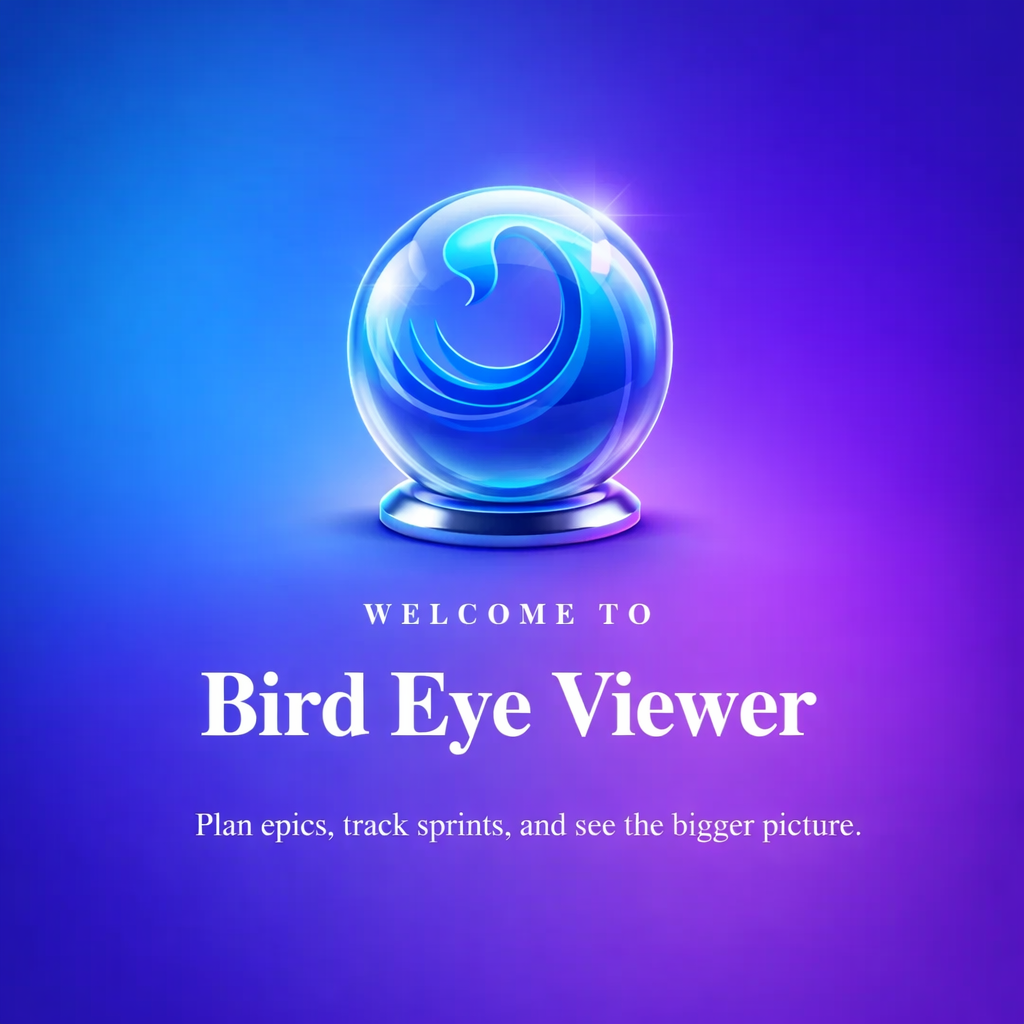
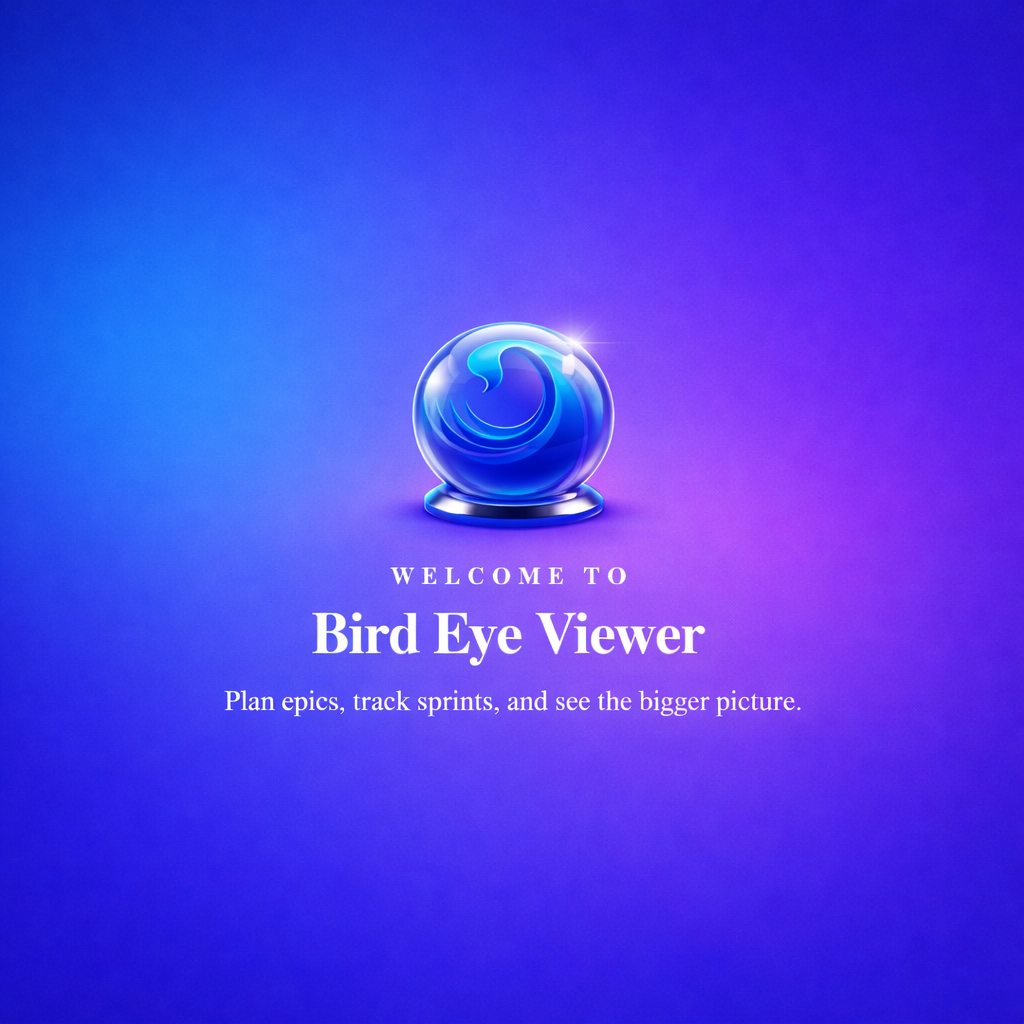
feat(auth, dashboard): cooldown + hydration safe + sticky polish
Auth
- Adds a client-side 60-second cooldown after 5 failed sign-in attempts,
  with an amber countdown banner above the inputs and "Locked · Xs"
  button label. Augments the existing 5/15min server rate limit and the
  (inactive without keys) Turnstile gate.
- Renders the login form as a placeholder on the server and swaps to
  the real <form> after mount, so password-manager extensions (Keeper,
  1Password, LastPass) that inject sibling elements no longer break
  hydration with a child-list mismatch.
- Defensive suppressHydrationWarning kept on the input wrappers as a
  belt-and-braces follow-up to the mounted-gate fix.
- New square 1024×1024 brand-panel hero (auth-hero.png) sized for the
  panel's near-square aspect; <Image unoptimized object-cover> serves
  the raw PNG so Next.js's optimization pipeline doesn't pick a
  downscaled variant.

Dashboard
- Removes the per-card edit-pencil button to the left of the X close
  control; ResizePad + X remain.
- Title-hover pencil and the sticky-note Edit button switch from the
  generic Pencil icon to the project's canonical SquarePen icon at
  size-3.5 strokeWidth 2 for consistency.
- Title's edit icon now sits right after the truncated title text with
  a 6px gap instead of being pushed to the far-right of the header.
- Sticky-note page-curl effect (corner cut + dark-slate underside
  triangle) moved from the outer card onto the ruled notebook page
  itself so it tracks the paper through the editing state instead of
[…]

diff --git a/epic-timeline-planner/components/auth/login-form.tsx b/epic-timeline-planner/components/auth/login-form.tsx
@@ -2,7 +2,7 @@
 
 import Link from "next/link";
 import { useRouter, useSearchParams } from "next/navigation";
-import { useCallback, useState } from "react";
+import { useCallback, useEffect, useState } from "react";
 import { Eye, EyeOff, Loader2, LogIn, Lock, Mail } from "lucide-react";
 import { toast } from "sonner";
 
@@ -39,21 +39,67 @@ export function LoginForm({
   const [failedAttempts, setFailedAttempts] = useState(0);
   const [turnstileToken, setTurnstileToken] = useState<string | null>(null);
   const [pending, setPending] = useState(false);
+  // Mounted gate — password-manager extensions (Keeper, 1Password, LastPass)
+  // inject sibling elements into form inputs AFTER React's first paint, which
+  // breaks SSR hydration with a child-list mismatch that suppressHydrationWarning
+  // alone can't silence. By rendering a static placeholder on the server and
+  // swapping to the real form only after `mounted` flips true (client-only),
+  // hydration completes against the placeholder and the swap is a normal
+  // re-render — no mismatch to flag.
+  const [mounted, setMounted] = useState(false);
+  useEffect(() => setMounted(true), []);
   // Inline error banner shown inside the form panel instead of a toast — toasts
   // are easy to miss and feel out of place for credential validation feedback.
   const [errorMessage, setErrorMessage] = useState<string | null>(null);
+  // Client-side cooldown — after 5 failed attempts in this browser session we
+  // disable the submit button for 60s and surface a countdown. Doesn't replace
+  // the server-side rate limit (5/15min) — it just gives the user explicit
+  // feedback and a hard pause before they can keep trying.
+  const [cooldownUntil, setCooldownUntil] = useState<number | null>(null);
+  const [cooldownTick, setCooldownTick] = useState(0);
 
   const needsCaptcha = failedAttempts >= TURNSTILE_THRESHOLD;
   const captchaConfigured = Boolean(process.env.NEXT_PUBLIC_TURNSTILE_SITE_KEY?.trim());
   const captchaBlocking = needsCaptcha && captchaConfigured && !turnstileToken;
+  const cooldownRemainingMs = cooldownUntil ? Math.max(0, cooldownUntil - Date.now()) : 0;
+  const cooldownActive = cooldownRemainingMs > 0;
+  const cooldownSeconds = Math.ceil(cooldownRemainingMs / 1000);
+  const submitBlocked = pending || captchaBlocking || cooldownActive;
+
+  // Keep the countdown text in sync while the cooldown is active. We only run
+  // the interval when there's a live cooldown so we don't tick forever.
+  useEffect(() => {
+    if (!cooldownActive) return;
+    const id = setInterval(() => setCooldownTick((t) => t + 1), 250);
+    return () => clearInterval(id);
+  }, [cooldownActive]);
+  // cooldownTick is intentionally read so its change re-renders the countdown.
+  void cooldownTick;
+
+  const COOLDOWN_THRESHOLD = 5;
+  const COOLDOWN_DURATION_MS = 60_000;
 
   const handleTurnstileSuccess = useCallback((token: string) => {
     setTurnstileToken(token);
   }, []);
 
+  function registerFailure() {
+    setTurnstileToken(null);
+    setFailedAttempts((n) => {
+      const next = n + 1;
+      // Once the user crosses COOLDOWN_THRESHOLD failed attempts in this
+      // session, start a 60-second hard pause. We re-arm the cooldown on every
+      // subsequent failure too, so they can't squeeze in attempts at the edge.
+      if (next >= COOLDOWN_THRESHOLD) {
+        setCooldownUntil(Date.now() + COOLDOWN_DURATION_MS);
+      }
+      return next;
+    });
+  }
+
   async function onSubmit(event: React.FormEvent<HTMLFormElement>) {
     event.preventDefault();
-    if (pending || captchaBlocking) return;
+    if (submitBlocked) return;
     setPending(true);
     setErrorMessage(null);
     try {
@@ -70,8 +116,7 @@ export function LoginForm({
       });
       if ("error" in result && result.error) {
         const msg = result.error.message || "Unable to sign in";
-        setFailedAttempts((n) => n + 1);
-        setTurnstileToken(null);
+        registerFailure();
         setErrorMessage(msg);
         return;
       }
@@ -79,13 +124,27 @@ export function LoginForm({
       router.push(callbackURL);
       router.refresh();
     } catch (err) {
-      setFailedAttempts((n) => n + 1);
-      setTurnstileToken(null);
+      registerFailure();
       const msg = err instanceof Error ? err.message : "Unable to sign in";
       setErrorMessage(msg);
     } finally {
       setPending(false);
     }
+  }
+
+  // Server-side / first-paint placeholder so hydration completes before the
+  // real <input>s exist (no inputs → nothing for password-managers to inject).
+  // Heights match the real form layout so there's no perceived layout shift
+  // when the real form swaps in on the next tick.
+  if (!mounted) {
+    return (
+      <div className="space-y-5" aria-hidden>
+        <div className="h-[68px]" />
+        <div className="h-[68px]" />
+        <div className="h-5" />
+        <div className="h-12 rounded-full bg-gradient-to-r from-sky-500 via-indigo-600 to-violet-600 opacity-60" />
+      </div>
+    );
   }
 
   return (
@@ -102,15 +161,32 @@ export function LoginForm({
           <span>{errorMessage}</span>
         </div>
       )}
+      {/* Cooldown banner — appears after 5 failed attempts and ticks down a
+          60-second hard pause. The submit button below is disabled while this
+          is on screen so the user can't keep brute-forcing. */}
+      {cooldownActive && (
+        <div
+          role="status"
+          aria-live="polite"
+          className="flex items-start gap-2 rounded-xl border border-amber-200 bg-amber-50 px-3.5 py-2.5 text-[12.5px] font-medium text-amber-800"
+        >
+          <span aria-hidden className="mt-0.5 inline-flex size-4 shrink-0 items-center justify-center rounded-full bg-amber-500 text-[10px] font-bold text-white">!</span>
+          <span>
+            Too many failed attempts. Please wait <strong>{cooldownSeconds}s</strong> before trying again.
+          </span>
+        </div>
+      )}
 
       <div className="space-y-2">
         <label htmlFor="login-email" className="text-[11px] font-bold uppercase tracking-[0.12em] text-slate-500">
           Email
         </label>
-        <div className="group relative">
+        <div className="group relative" suppressHydrationWarning>
           {/* Leading icon — sits inside the input's left padding so the cursor and
               text never collide with it. Color shifts to indigo on focus to echo
-              the focus ring's hue. */}
+              the focus ring's hue. suppressHydrationWarning silences the noise
+              from password-manager extensions (Keeper, 1Password, etc.) that
+              inject their own siblings into this wrapper after mount. */}
           <Mail className="pointer-events-none absolute left-3.5 top-1/2 size-4 -translate-y-1/2 text-slate-400 transition-colors group-focus-within:text-indigo-500" />
           <input
             id="login-email"
@@ -122,6 +198,7 @@ export function LoginForm({
             onChange={(e) => { setEmail(e.target.value); if (errorMessage) setErrorMessage(null); }}
             className="w-full rounded-xl border border-slate-200 bg-white pl-10 pr-4 py-3 text-[14px] text-slate-900 outline-none transition-shadow placeholder:text-slate-400 focus:border-indigo-400 focus:ring-4 focus:ring-indigo-100"
             placeholder="[email redacted]"
+            suppressHydrationWarning
           />
         </div>
       </div>
@@ -138,7 +215,7 @@ export function LoginForm({
             Forgot password?
           </Link>
         </div>
-        <div className="group relative">
+        <div className="group relative" suppressHydrationWarning>
           <Lock className="pointer-events-none absolute left-3.5 top-1/2 size-4 -translate-y-1/2 text-slate-400 transition-colors group-focus-within:text-indigo-500" />
           <input
             id="login-password"
@@ -150,6 +227,7 @@ export function LoginForm({
             onChange={(e) => { setPassword(e.target.value); if (errorMessage) setErrorMessage(null); }}
             className="w-full rounded-xl border border-slate-200 bg-white pl-10 pr-11 py-3 text-[14px] text-slate-900 outline-none transition-shadow placeholder:text-slate-400 focus:border-indigo-400 focus:ring-4 focus:ring-indigo-100"
             placeholder="••••••••••"
+            suppressHydrationWarning
           />
           <button
             type="button"
@@ -176,7 +254,7 @@ export function LoginForm({
 
       <button
         type="submit"
-        disabled={pending || captchaBlocking}
+        disabled={submitBlocked}
         className={cn(
           "inline-flex h-12 w-full items-center justify-center gap-2 rounded-full border-0 px-6 text-[13px] font-bold uppercase tracking-[0.12em] text-white shadow-lg shadow-indigo-500/25 transition-all",
           "bg-gradient-to-r from-sky-500 via-indigo-600 to-violet-600",
@@ -186,7 +264,13 @@ export function LoginForm({
         )}
       >
         {pending ? <Loader2 className="size-4 animate-spin" /> : <LogIn className="size-4" />}
-        <span>{pending ? "Signing in…" : "Login"}</span>
+        <span>
+          {pending
+            ? "Signing in…"
+            : cooldownActive
+              ? `Locked · ${cooldownSeconds}s`
+              : "Login"}
+        </span>
       </button>
 
       {captchaBlocking && (

diff --git a/epic-timeline-planner/components/dashboard/charts/sticky-note-card.tsx b/epic-timeline-planner/components/dashboard/charts/sticky-note-card.tsx
@@ -14,7 +14,7 @@ import {
   Link as LinkIcon,
   List,
   ListOrdered,
-  Pencil,
+  SquarePen,
   Quote,
   Underline as UnderlineIcon,
   X,
@@ -106,31 +106,17 @@ export function StickyNoteCard({ body, onSave, allowEdit = true }: Props) {
 
   const isEmpty = !body || stripHtml(body).length === 0;
 
-  // Page-curl effect: the paper has a chunk cut from its bottom-right corner via a -45deg gradient,
-  // and a small triangle below paints the underside of the fold (lighter + shadow on the diagonal).
+  // Page-curl effect: applied to the NOTEBOOK page (further down) rather than
+  // the outer card, so the curl always reads as part of the paper itself even
+  // when the footer action buttons (Edit / Cancel / Save) are mounted below.
   const FOLD = 22; // px — size of the curled-corner triangle
   return (
     <div
-      className="relative h-full min-h-0 bg-white ring-1 ring-slate-200"
+      className="relative h-full min-h-0 rounded-xl bg-white ring-1 ring-slate-200"
       style={{
-        clipPath: `polygon(0 0, 100% 0, 100% calc(100% - ${FOLD}px), calc(100% - ${FOLD}px) 100%, 0 100%)`,
-        borderRadius: "12px",
         boxShadow: "inset 0 1px 0 rgba(255,255,255,0.7), 0 4px 12px -4px rgba(15,23,42,0.10)",
       }}
     >
-      {/* Underside of the fold — small triangle in the bottom-right corner; soft slate so it reads against the white body. */}
-      <div
-        className="pointer-events-none absolute right-0 bottom-0"
-        style={{
-          width: `${FOLD}px`,
-          height: `${FOLD}px`,
-          background:
-            "linear-gradient(135deg, transparent 50%, rgb(226 232 240 / 0.85) 50%, rgb(203 213 225 / 0.95) 100%)",
-          filter: "drop-shadow(-1px -1px 1px rgba(15,23,42,0.12))",
-        }}
-        aria-hidden
-      />
-
       <div className="flex h-full min-h-0 flex-col p-3">
       {/* Header row: formatting toolbar only (shown when editing). Action buttons live in the footer below. */}
       {editing ? (
@@ -156,8 +142,10 @@ export function StickyNoteCard({ body, onSave, allowEdit = true }: Props) {
         </div>
       ) : null}
 
-      {/* Body — ruled notebook page: white background with periodic horizontal lines.
-          The 24px ruling matches the editor's line-height so text sits on the lines. */}
+      {/* Body — ruled notebook page: white background with periodic
+          horizontal lines + the page-curl effect cut from its bottom-right
+          corner. The 24px ruling matches the editor's line-height so text
+          sits on the lines. */}
       <div
         className="relative min-h-0 flex-1 overflow-y-auto rounded-md bg-white ring-1 ring-violet-200/50"
         style={{
@@ -165,10 +153,25 @@ export function StickyNoteCard({ body, onSave, allowEdit = true }: Props) {
             "repeating-linear-gradient(to bottom, transparent 0, transparent calc(1.5rem - 1px), rgb(186 230 253 / 0.7) calc(1.5rem - 1px), rgb(186 230 253 / 0.7) 1.5rem)",
           backgroundPosition: "0 0.4rem",
           backgroundAttachment: "local",
+          clipPath: `polygon(0 0, 100% 0, 100% calc(100% - ${FOLD}px), calc(100% - ${FOLD}px) 100%, 0 100%)`,
         }}
       >
         {/* Optional red "margin" line on the left, classic notebook touch */}
         <span className="pointer-events-none absolute inset-y-0 left-[1.65rem] w-px bg-rose-300/50" aria-hidden />
+        {/* Underside of the page-curl fold — soft slate triangle in the
+            bottom-right corner of the notebook page. Sits inside the body
+            so it always tracks the paper, not the outer card. */}
+        <div
+          className="pointer-events-none absolute right-0 bottom-0"
+          style={{
+            width: `${FOLD}px`,
+            height: `${FOLD}px`,
+            background:
+              "linear-gradient(135deg, transparent 50%, rgb(226 232 240 / 0.85) 50%, rgb(203 213 225 / 0.95) 100%)",
+            filter: "drop-shadow(-1px -1px 1px rgba(15,23,42,0.12))",
+          }}
+          aria-hidden
+        />
         {editing || !isEmpty ? (
           <EditorContent
             editor={editor}
@@ -218,7 +221,7 @@ export function StickyNoteCard({ body, onSave, allowEdit = true }: Props) {
               className="inline-flex h-7 items-center gap-1 rounded-md border border-violet-300/60 bg-white/70 px-2 text-[11px] font-semibold text-violet-800 hover:bg-white"
               aria-label="Edit note"
             >
-              <Pencil className="size-3" />
+              <SquarePen className="size-3.5" strokeWidth={2} />
               Edit
             </button>
           )}

diff --git a/epic-timeline-planner/components/auth/brand-panel.tsx b/epic-timeline-planner/components/auth/brand-panel.tsx
@@ -3,30 +3,32 @@ import Image from "next/image";
 /**
  * Marketing column shown beside the auth form on desktop (hidden below `lg:`).
  *
- * Uses a single pre-rendered hero image (`/auth-hero.png`) that bakes in the
- * gradient backdrop, the bubble mark, and the "WELCOME TO / Bird Eye Viewer"
- * typography from the design the user supplied. The image is sized via
- * object-cover so it fills the panel regardless of column proportions.
+ * Uses the pre-rendered hero image (`/auth-hero.png`) that already has the
+ * gradient backdrop, the bubble, and the WELCOME copy laid out at a balanced
+ * size. `object-cover` fills the panel edge-to-edge.
  */
 export function BrandPanel() {
   return (
-    <aside
-      aria-hidden
-      className="relative hidden overflow-hidden lg:block bg-gradient-to-br from-sky-500 via-indigo-600 to-violet-700"
-    >
-      {/* Shrink the entire image (gradient backdrop + bubble + text) to fit
-          inside the panel with breathing room on all sides. object-contain
-          preserves the image's aspect ratio; the matching panel gradient
-          behind it extends seamlessly to the card's edge. Bump p-* up to make
-          the image even smaller, down to reduce the margin. */}
+    <aside aria-hidden className="relative hidden overflow-hidden lg:block">
+      {/* object-cover fills the panel edge-to-edge. With this image's tight
+          composition (small bubble + text centered in lots of gradient), the
+          horizontal cropping just trims excess gradient on the sides — the
+          content stays well within frame and there's no visible seam since
+          the image is the only thing painting the panel background. */}
       <Image
         src="/auth-hero.png"
         alt=""
         fill
         priority
         quality={100}
-        sizes="(min-width: 1280px) 720px, 50vw"
-        className="object-contain p-12 xl:p-16"
+        // Skip Next.js's image-optimization pipeline so the browser receives
+        // the raw 1536×1024 PNG. Optimization picks a downscaled variant when
+        // `sizes` is conservative, which makes object-cover's required upscale
+        // worse. Serving the original gives object-cover the most pixels to
+        // work with and is the fastest sharpness win without re-generating
+        // the source asset at a higher resolution.
+        unoptimized
+        className="object-cover"
       />
     </aside>
   );

diff --git a/epic-timeline-planner/components/dashboard/dashboard-chart-card.tsx b/epic-timeline-planner/components/dashboard/dashboard-chart-card.tsx
@@ -3,7 +3,7 @@
 import { Fragment, useRef, useState } from "react";
 import { useSortable } from "@dnd-kit/sortable";
 import { CSS } from "@dnd-kit/utilities";
-import { Flag, GripVertical, Pencil, StickyNote, Users, X } from "lucide-react";
+import { Flag, GripVertical, SquarePen, StickyNote, Users, X } from "lucide-react";
 
 import { cn } from "@/lib/utils";
 import { InitiativeItem } from "@/lib/types";
@@ -410,12 +410,16 @@ export function DashboardChartCard({ chart, initiatives, isEditMode, onRemove, o
           />
         ) : (
           <span
-            className="group/title flex min-w-0 flex-1 items-center gap-1 text-sm font-semibold text-slate-700"
+            className="group/title flex min-w-0 flex-1 items-center gap-1.5 text-sm font-semibold text-slate-700"
           >
             {chart.chartType === "sticky-note" && (
               <StickyNote className="size-3.5 shrink-0 text-violet-500" aria-hidden />
             )}
-            <span className="flex min-w-0 flex-1 items-center overflow-hidden whitespace-nowrap">
+            {/* Title takes only its natural width (no flex-1) so the edit icon
+                sits right after the text with a small gap, rather than being
+                pushed to the far right of the header. overflow-hidden +
+                whitespace-nowrap still clip long titles. */}
+            <span className="flex min-w-0 items-center overflow-hidden whitespace-nowrap">
               {renderTitleNodes(chart, displayTitle)}
             </span>
             <button
@@ -423,7 +427,7 @@ export function DashboardChartCard({ chart, initiatives, isEditMode, onRemove, o
               className="shrink-0 rounded p-0.5 text-slate-300 opacity-0 transition-all group-hover/title:opacity-100 hover:bg-slate-100 hover:text-slate-500"
               title="Rename chart"
             >
-              <Pencil className="size-3" />
+              <SquarePen className="size-3.5" strokeWidth={2} />
             </button>
           </span>
         )}
@@ -437,13 +441,6 @@ export function DashboardChartCard({ chart, initiatives, isEditMode, onRemove, o
               disableUp={rowSpan <= 1}
               disableDown={rowSpan >= 4}
             />
-            <button
-              onClick={() => onEdit(chart)}
-              className="rounded p-1 text-slate-400 hover:bg-slate-100 hover:text-slate-600"
-              title="Edit chart"
-            >
-              <Pencil className="size-3.5" />
-            </button>
             <button
               onClick={() => onRemove(chart.id)}
               className="rounded p-1 text-slate-400 hover:bg-red-50 hover:text-red-500"